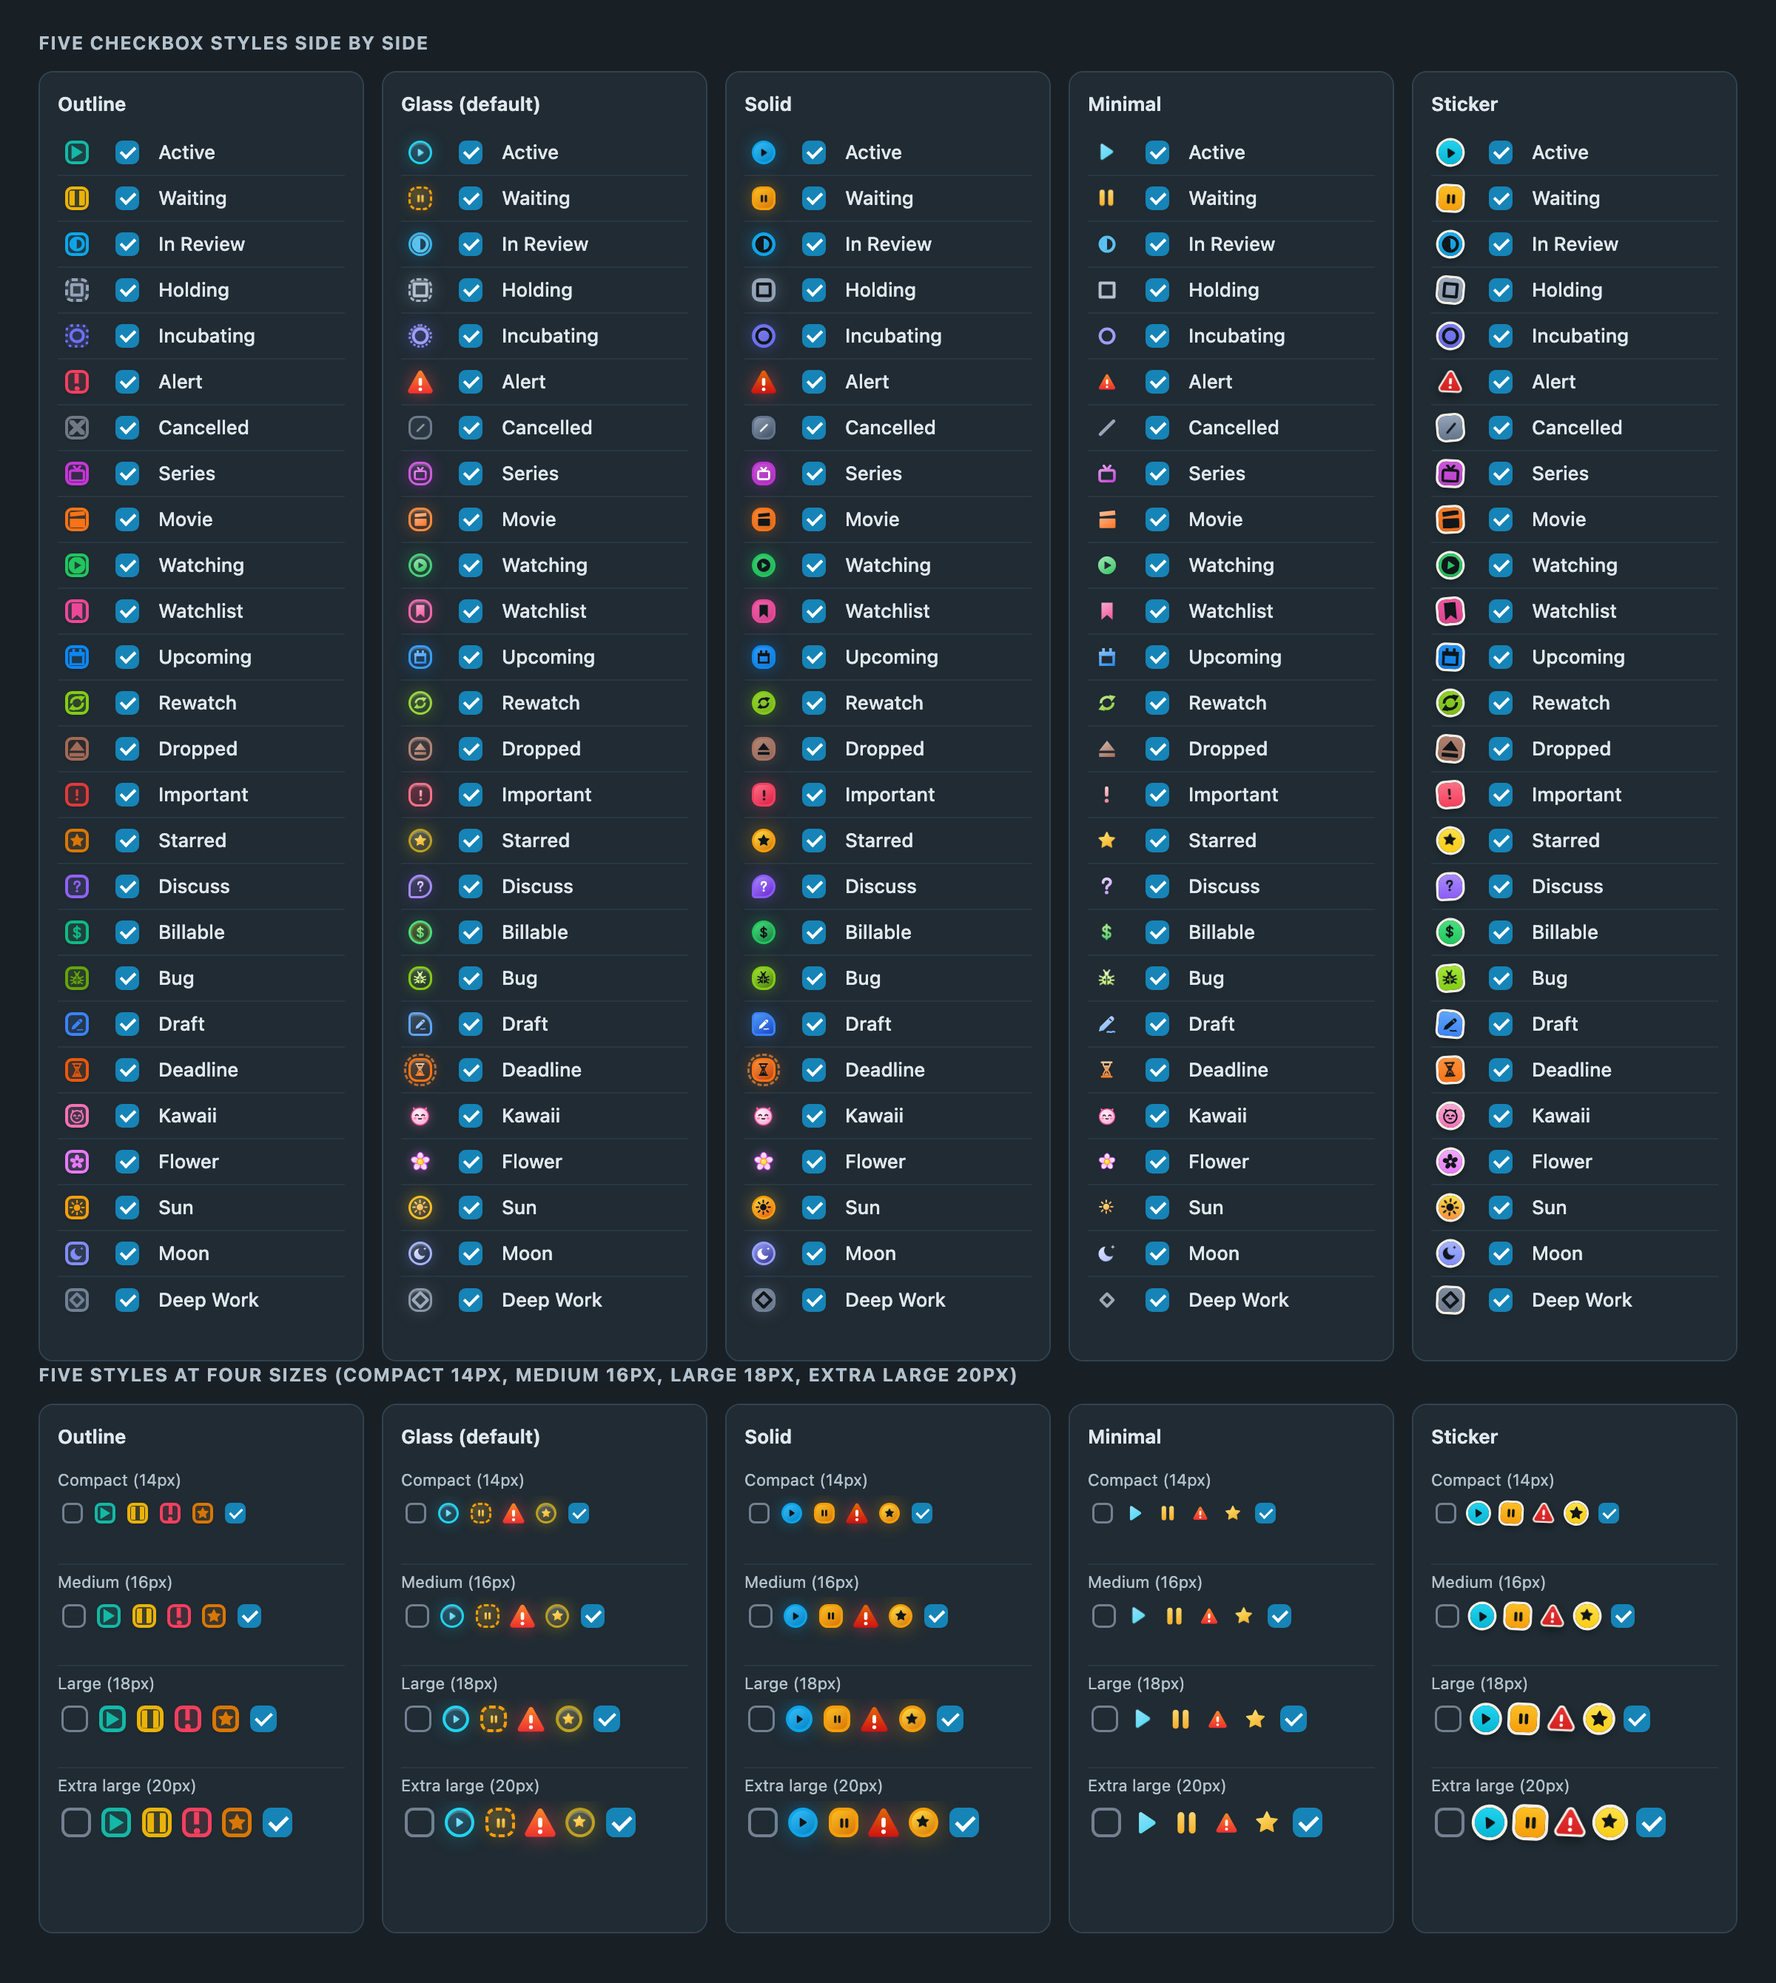
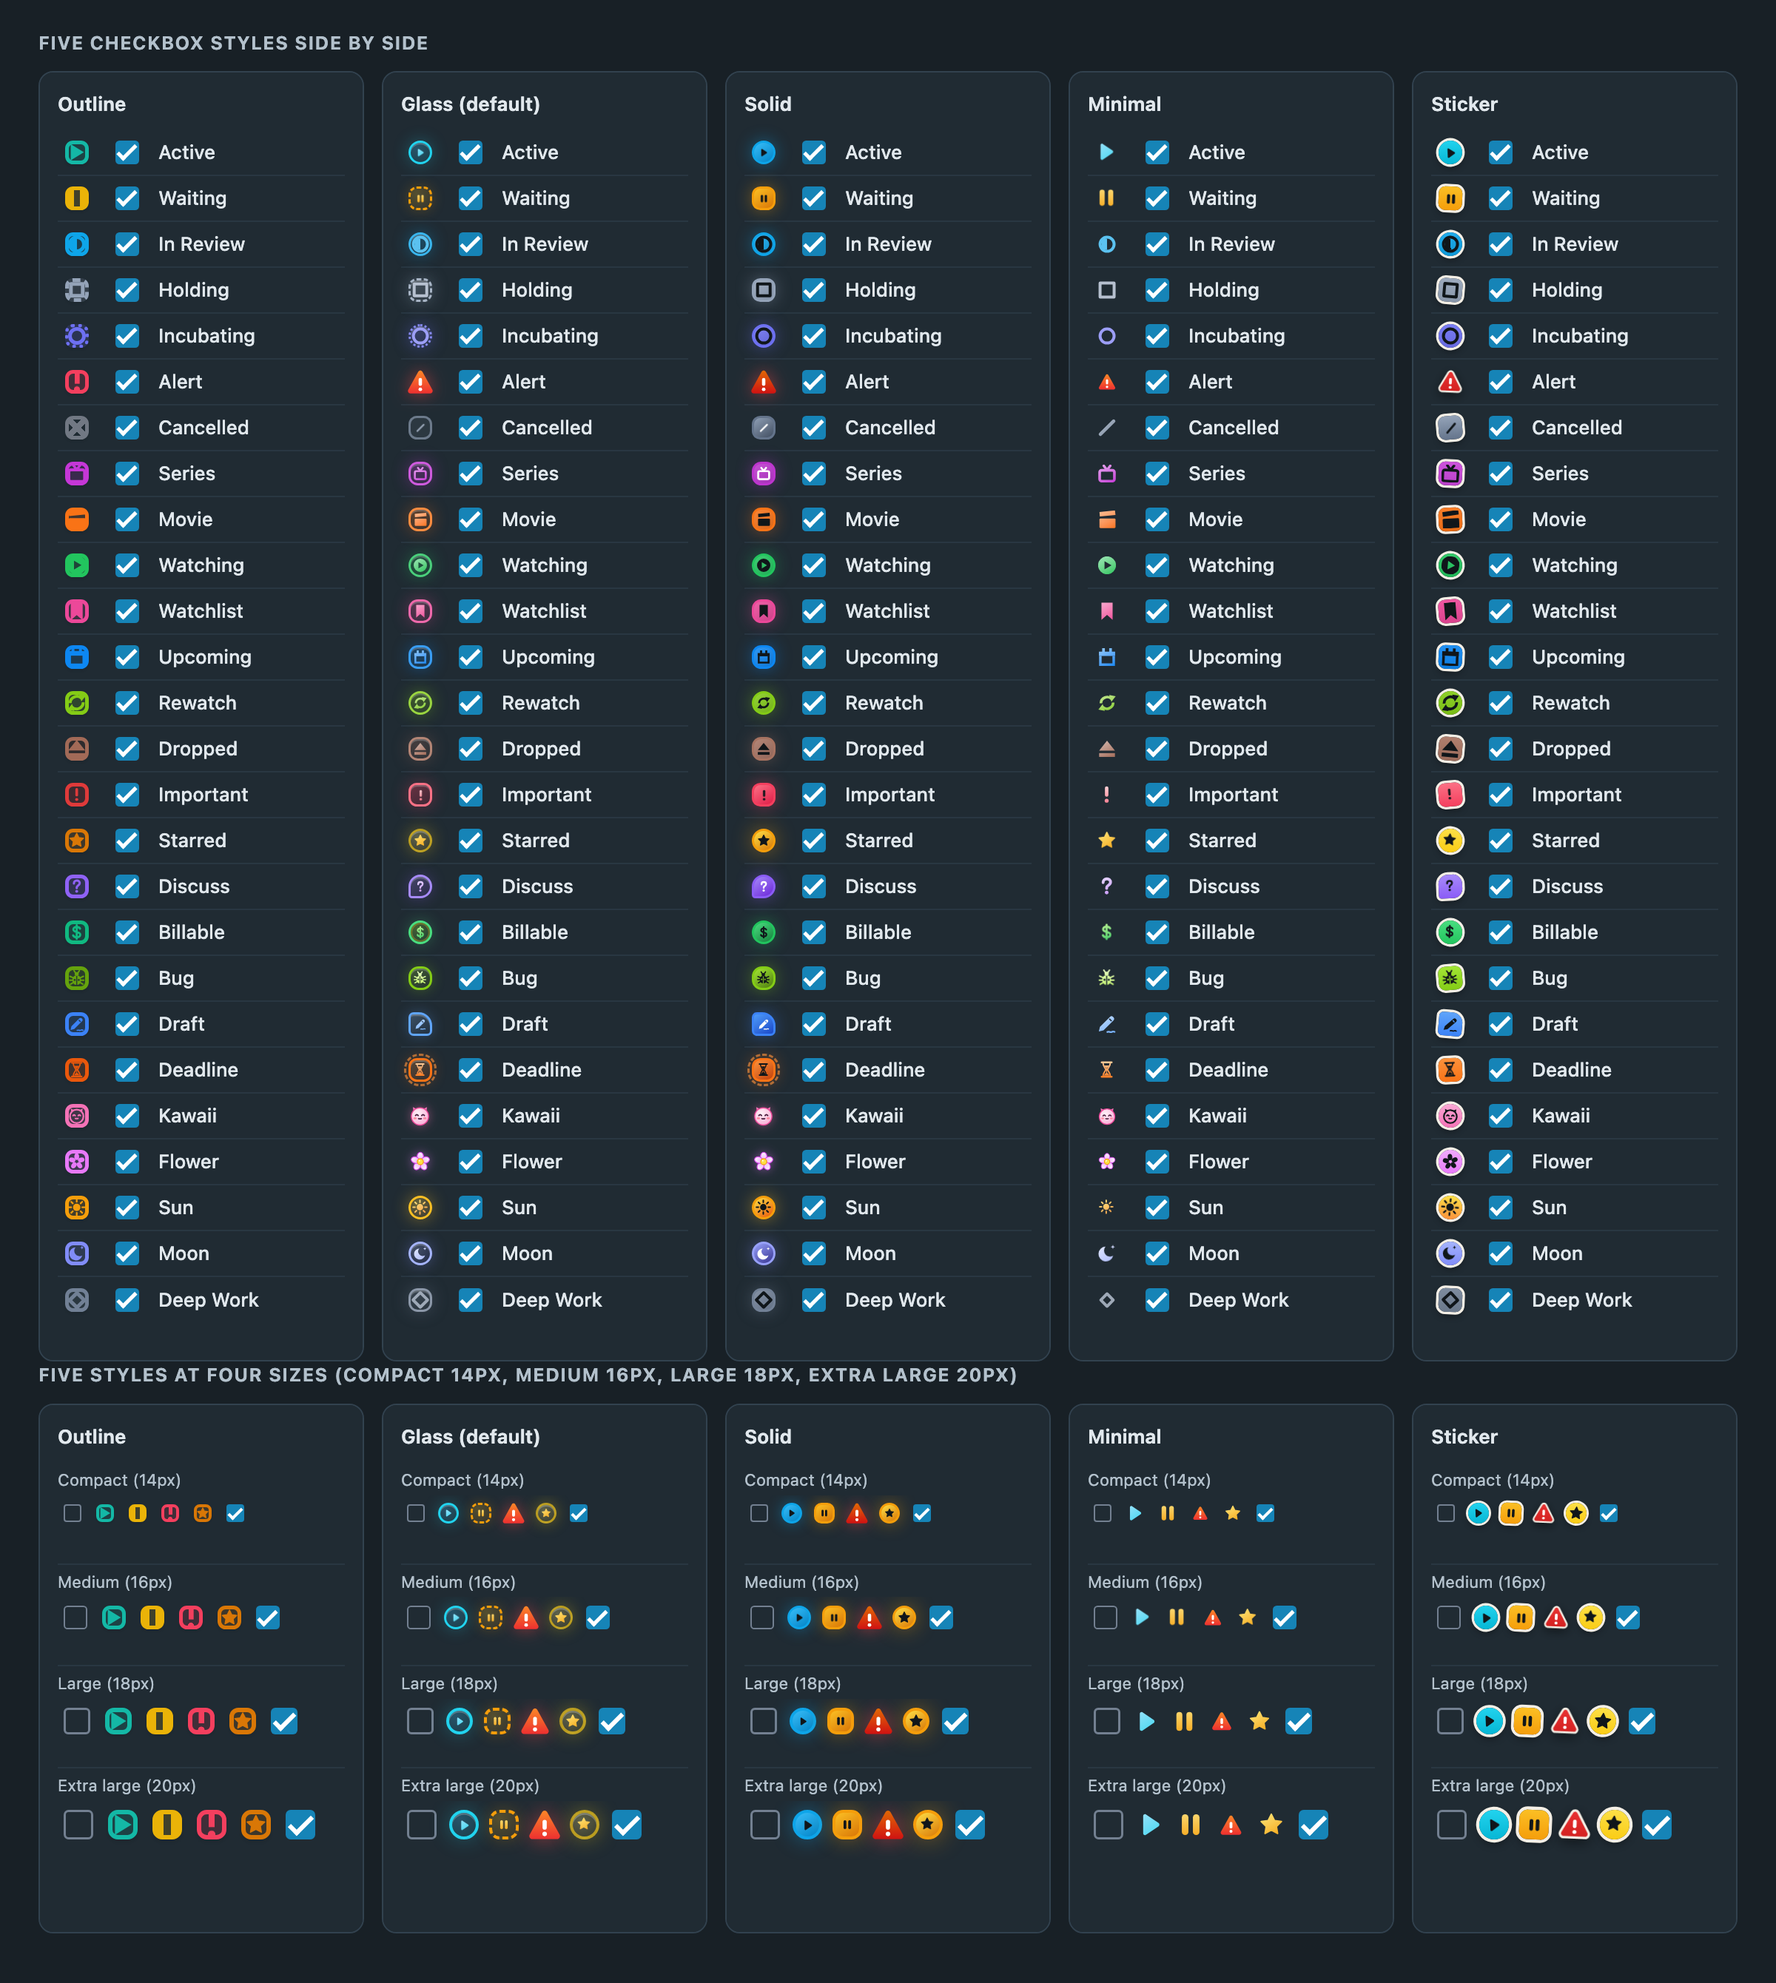
RTS-12: Release v0.18.2 with updated spec, changelog, and screenshots

diff --git a/tests/fixtures/depot-gallery.html b/tests/fixtures/depot-gallery.html
@@ -3,7 +3,7 @@
   <head>
     <meta charset="utf-8" />
     <meta name="viewport" content="width=device-width, initial-scale=1" />
-    <title>Task Status Tags gallery fixture (v0.18.1)</title>
+    <title>Task Status Tags gallery fixture (v0.18.2)</title>
     <link rel="stylesheet" href="../../extension.css" />
     <style id="ts-gallery-base">
       :root {
@@ -500,7 +500,7 @@
   <body>
     <main>
       <header class="toolbar">
-        <h1>Task Status Tags Gallery (v0.18.1)</h1>
+        <h1>Task Status Tags Gallery (v0.18.2)</h1>
         <div class="controls">
           <div class="control-group" role="group" aria-label="Theme">
             <button type="button" data-theme-choice="light" aria-pressed="true">Light</button>
@@ -898,7 +898,7 @@
           var byKey = function (k) { return ALL_ITEMS.find(function (it) { return it.key === k; }); };
           var sampleRows = [
             { kind: "plain-todo", text: "Plain Roam TODO without status" },
-            { kind: "status", item: byKey("ACTIVE"), text: "Draft release notes for v0.18.1" },
+            { kind: "status", item: byKey("ACTIVE"), text: "Draft release notes for v0.18.2" },
             { kind: "status", item: byKey("WAITING"), text: "Waiting on landlord repair estimate" },
             { kind: "status", item: byKey("IN_REVIEW"), text: "Review PR for checkbox zoom calibration" },
             { kind: "status", item: byKey("HOLDING"), text: "Hold server migration until Friday window" },

diff --git a/deploy/extension.js b/deploy/extension.js
@@ -1,4 +1,4 @@
-/* Roam Task Status Tags v0.18.1 | generated; edit src/ */
+/* Roam Task Status Tags v0.18.2 | generated; edit src/ */
 
 // src/status-checkbox.js
 var CHECKBOX_STATUS_ATTRIBUTE = "data-ts-checkbox-status";
@@ -5382,7 +5382,7 @@ function createStatusPeekController({
 
 // src/extension.js
 var GLOBAL_KEY = "__svyk_roamTaskStatusTags";
-var BUNDLED_VERSION = true ? "0.18.1" : "development";
+var BUNDLED_VERSION = true ? "0.18.2" : "development";
 function resolveTaskStatusRuntimeVersion(extensionVersion) {
   const reported = typeof extensionVersion === "string" ? extensionVersion.trim() : "";
   return reported && reported.toUpperCase() !== "DEV" ? reported : BUNDLED_VERSION;

diff --git a/extension.js b/extension.js
@@ -1,4 +1,4 @@
-/* Roam Task Status Tags v0.18.1 | generated; edit src/ */
+/* Roam Task Status Tags v0.18.2 | generated; edit src/ */
 
 // src/status-checkbox.js
 var CHECKBOX_STATUS_ATTRIBUTE = "data-ts-checkbox-status";
@@ -5382,7 +5382,7 @@ function createStatusPeekController({
 
 // src/extension.js
 var GLOBAL_KEY = "__svyk_roamTaskStatusTags";
-var BUNDLED_VERSION = true ? "0.18.1" : "development";
+var BUNDLED_VERSION = true ? "0.18.2" : "development";
 function resolveTaskStatusRuntimeVersion(extensionVersion) {
   const reported = typeof extensionVersion === "string" ? extensionVersion.trim() : "";
   return reported && reported.toUpperCase() !== "DEV" ? reported : BUNDLED_VERSION;

diff --git a/docs/spec-depot-port.md b/docs/spec-depot-port.md
@@ -269,7 +269,7 @@ The clean-room boundary in section 1 is superseded for BetterTask for Thymer (`g
 ### Measured baseline (v0.17.0, Glass, dark)
 
 - Block text: Inter 14px, line-height 21px (`cap-height` 10.2px, `x-height` 7.6px). Block height: `min-height: 29px`, `padding: 4px 0`, `white-space: pre-wrap`.
-- `.rm-checkbox` is `display: inline` (12px wide); `.check-container` is a 12x12 `inline-block` (`position: relative`, `vertical-align: baseline`, `line-height: 14px`); `.checkmark` sits at `top: -1px; left: -1px` as a 14x14 tile centred at 14.5px inside the 29px block.
+- `.rm-checkbox` is `display: inline`; `.check-container` is a 12x12 `inline-block` (`position: relative`, `vertical-align: baseline`). In Roam Desktop (`site.css`, no theme), Roam's own `.checkmark` is `position: absolute; top: 0; left: 0`, 12x12 (`box-sizing: border-box`, border ~1px, `border-radius: 2px`), with its checked tick `.check-container .checkmark::after` at `left: 3.5px; top: 0.25px; width: 5px; height: 10px`. The 14x14 tile at `top: -1px; left: -1px` (`width: calc(100% + 2px); height: calc(100% + 2px)`) is added by this extension's CSS for styled unchecked status tiles (Glass, Solid, Minimal, Sticker) only; plain TODOs, DONE boxes, status DONE boxes, and Outline status checkboxes stay at Roam's 12x12 box.
 - Inner glyph height ranged from 8.5px (Waiting) to 13.4px (Alert). At `devicePixelRatio` 1.095 (1x display with mild zoom), an 8.5px glyph renders in roughly 9 device pixels.
 - Gap from the tile's right edge to the first visible letter varied by source whitespace: ~3px on a plain TODO (one space), ~6.9px on a status task with a hidden prefix tag (two spaces), and ~10.9px if an extra space was left after the tag.
 - The 11 optional extra statuses were hidden behind an unlabeled button and missed in normal use.
@@ -285,19 +285,25 @@ The clean-room boundary in section 1 is superseded for BetterTask for Thymer (`g
 7. **24-unit pixel grid:** at 18px one grid unit is 0.75 CSS px (1.5 device px at 2x), placing 2-unit strokes cleanly on whole pixels (1.5 CSS px minimum stroke at Large). 16px and 20px do not divide 24 evenly.
 8. **Hick-Hyman:** choice time and command-palette noise scale with option count, so extras remain opt-in one at a time via a visual **More statuses** gallery rather than enabled by default.
 
-### Final numbers and decisions (v0.18.0)
+### Final numbers and decisions (v0.18.0, corrected in v0.18.2 / RTS-12)
 
-- **Setting `task-status-checkbox-size` ("Checkbox size"):** `Compact` (14px, no root attribute, byte-for-byte v0.17.0 geometry), `Medium` (16px, default, `data-ts-checkbox-size="medium"`), `Large` (18px, `data-ts-checkbox-size="large"`), `Extra large` (20px, `data-ts-checkbox-size="xlarge"`). Removed on unload. The default was set to Medium on the user's preference after testing; Large stays the size where 24-grid strokes land on whole pixels.
-- **Scaling mechanism:** uniform CSS `zoom` on `.rm-checkbox > .check-container` keyed to the native 14px `.checkmark` base so plain TODO boxes, DONE theme ticks, Outline, Glass, Solid, Minimal, and Sticker tiles all scale identically:
-  - `Medium` (default): `zoom: 1.1429` (`16/14`), `vertical-align: -1.15px`, `margin-right: 4.35px` (plain/DONE) / `0.55px` (hidden-pill status).
-  - `Large`: `zoom: 1.2858` (`18/14`), `vertical-align: -1.7px`, `margin-right: 4.5px` (plain/DONE) / `0.7px` (hidden-pill status).
-  - `Extra large`: `zoom: 1.4286` (`20/14`), `vertical-align: -2.15px`, `margin-right: 4.65px` (plain/DONE) / `0.85px` (hidden-pill status).
-  - Click target (`> .check-container::after`): `inset: -1px`, matching the exact zoomed 14px tile (16/18/20px) with zero dead zone and zero slop into the first letter. Chooser icons (16px) and settings previews reset to `zoom: 1`.
-- **Measured in headless Chromium (Inter 14px/21px, 29px block, `white-space: pre-wrap`):**
-  - Tile outer size (TODO / DONE / status, all 5 styles): Compact `14.00px`, Medium `15.98-16.00px`, Large `17.98-18.00px`, Extra large `19.98-20.00px`.
-  - One-line block height: `29.00px` with and without scaling at all four sizes; wrapped block first-line vertical shift: `0.00px`.
-  - Tile centre offset from line-box centre (14.5px): Compact `-0.50px`, Medium `-0.03 to -0.04px`, Large `-0.03 to -0.04px`, Extra large `0.00 to -0.01px`.
-  - Gap to first letter (TODO / DONE / hidden-pill status): Compact `2.80 / 2.80 / 6.59px` (unchanged); Medium `6.98 / 6.98 / 6.98-7.00px`; Large `7.00 / 7.00 / 6.98-7.00px`; Extra large `7.00 / 7.00 / 7.00-7.02px`.
+- **Setting `task-status-checkbox-size` ("Checkbox size"):** `Compact` (no root attribute, adds no size CSS: 12px Roam native box, 14px styled status tile), `Medium` (16px, default, `data-ts-checkbox-size="medium"`), `Large` (18px, `data-ts-checkbox-size="large"`), `Extra large` (20px, `data-ts-checkbox-size="xlarge"`). Removed on unload. The default was set to Medium on the user's preference after testing; Large stays the size where 24-grid strokes land on whole pixels.
+- **Scaling mechanism (v0.18.2 / RTS-12):** CSS `zoom` on `.rm-checkbox > .check-container` uses two factors per size because Roam's own `.checkmark` is 12x12 at `top: 0; left: 0` while styled unchecked status tiles (Glass, Solid, Minimal, Sticker) expand `.checkmark` to 14x14 at `top: -1px; left: -1px`. Neither rule sets `width` or `height` on Roam's or a theme's box:
+  - **12px native boxes** (plain TODO, DONE, status DONE, Outline status TODO):
+    - `Medium` (16px): `zoom: 1.3333` (`16/12`), `vertical-align: -1.85px`, `margin-left: 0`, `margin-right: 3.2px` (`-0.6px` with `[data-ts-pill-hidden="true"]`).
+    - `Large` (18px): `zoom: 1.5` (`18/12`), `vertical-align: -2.32px`, `margin-left: 0`, `margin-right: 3.2px` (`-0.6px` with hidden pill).
+    - `Extra large` (20px): `zoom: 1.6667` (`20/12`), `vertical-align: -2.7px`, `margin-left: 0`, `margin-right: 3.2px` (`-0.6px` with hidden pill).
+  - **14px styled unchecked status tiles** (`:root[data-ts-checkbox-size="..."][data-ts-checkbox-style] .rm-checkbox[data-ts-checkbox-status]:not(.rm-done)`):
+    - `Medium` (16px): `zoom: 1.1429` (`16/14`), `vertical-align: -1.15px`, `margin-left: 1.14px`, `margin-right: 4.35px` (`0.55px` with hidden pill).
+    - `Large` (18px): `zoom: 1.2858` (`18/14`), `vertical-align: -1.7px`, `margin-left: 1.29px`, `margin-right: 4.5px` (`0.7px` with hidden pill).
+    - `Extra large` (20px): `zoom: 1.4286` (`20/14`), `vertical-align: -2.15px`, `margin-left: 1.43px`, `margin-right: 4.65px` (`0.85px` with hidden pill).
+  - Click target (`> .check-container::after`): `inset: 0` on 12px boxes and `inset: -1px` on 14px styled status tiles, matching the exact visible 16/18/20px box with no slop onto text. Chooser icons and settings previews reset to `zoom: 1`, `vertical-align: baseline`, and `margin: 0`.
+- **Measured in headless Chromium on the corrected Roam `site.css` fixture (v0.18.2, Inter 14px/21px, 29px block, `white-space: pre-wrap`):**
+  - Box outer size (plain TODO / DONE / annotated status tile / pre-annotation status row): Compact `12.00 / 12.00 / 14.00 / 12.00px`; Medium `15.99-16.00px`; Large `17.99-18.00px`; Extra large `19.99-20.00px` (unrotated tile; Sticker's `-2.5deg` tilt adds ~4.3% to its axis-aligned bounding box around the same centre).
+  - One-line block height: `29.00px` across all rows, styles, and sizes; wrapped two-line block height stays `50.00px`.
+  - Box centre y in the 29px block: Compact `13.50px`; Medium `13.96px` (`0.00px` spread); Large `13.97-13.98px` (`0.01px` spread); Extra large `14.00px` (`0.00px` spread).
+  - Box left x in the block (unrotated): Compact `0.00px` native / `-1.00px` styled tile; Medium `-0.01 to 0.00px`; Large `0.00 to +0.01px`; Extra large `0.00 to +0.01px`.
+  - First-letter start x & gap from box right edge: Medium `22.96-22.98px` (gap `6.98px`); Large `24.98px` (gap `6.98px`); Extra large `26.98px` (gap `6.98px`). Pre-annotation vs annotated status row matches within `0.03px` across size, centre y, left x, and text start x (no jump on annotation).
   - Burst canvas centre offset: `0.00-0.01px` across all four sizes (`.checkmark.getBoundingClientRect()` returns scaled viewport coordinates directly).
 - **Default style:** `Glass` is now the fallback style for installs with no saved value; saved values are never altered.
 - **Fifth style `Sticker`:** opaque die-cut tiles with a 1.5px neutral paper rim (`#ffffff` + soft drop shadow on light; `#f4efe6` on dark), per-block deterministic tilt (`-5deg`, `-2.5deg`, `+2.5deg`, `+5deg`), hover straighten/lift and slap landing gated by `task-status-ambient-motion` and reduced motion, and dedicated contrast-certified Sticker fills/inks (`>= 3:1` vs surface, `>= 4.5:1` glyph vs tile across all 25 statuses and custom statuses) without altering the four existing styles.

diff --git a/CHANGELOG.md b/CHANGELOG.md
@@ -1,5 +1,10 @@
 # Changelog
 
+## 0.18.2 - 2026-11-24
+
+- Plain TODO and DONE boxes now match the status icon size at Medium, Large, and Extra large (16, 18, and 20px). They were about 14% smaller because Roam's own checkbox is 12px while styled status tiles are 14px.
+- Align the left edge, vertical centre, and 7px text gap across plain TODO, DONE, and status rows so nothing jumps when a status attribute is added. Compact still adds no size CSS.
+
 ## 0.18.1 - 2026-11-24
 
 - Make **Medium** (16px) the default checkbox size for new installs without changing any saved preference.

diff --git a/deploy/CHANGELOG.md b/deploy/CHANGELOG.md
@@ -1,5 +1,10 @@
 # Changelog
 
+## 0.18.2 - 2026-11-24
+
+- Plain TODO and DONE boxes now match the status icon size at Medium, Large, and Extra large (16, 18, and 20px). They were about 14% smaller because Roam's own checkbox is 12px while styled status tiles are 14px.
+- Align the left edge, vertical centre, and 7px text gap across plain TODO, DONE, and status rows so nothing jumps when a status attribute is added. Compact still adds no size CSS.
+
 ## 0.18.1 - 2026-11-24
 
 - Make **Medium** (16px) the default checkbox size for new installs without changing any saved preference.
